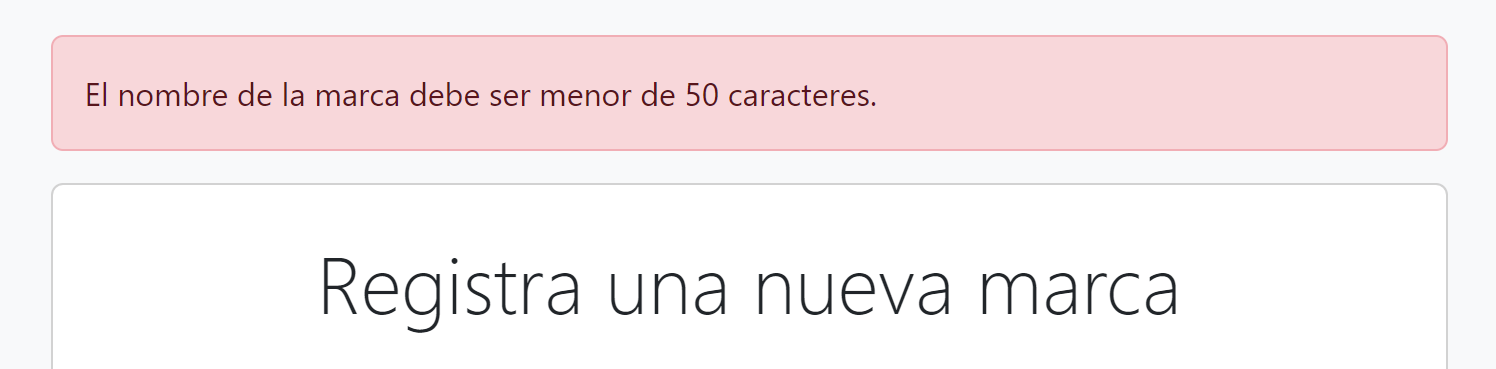
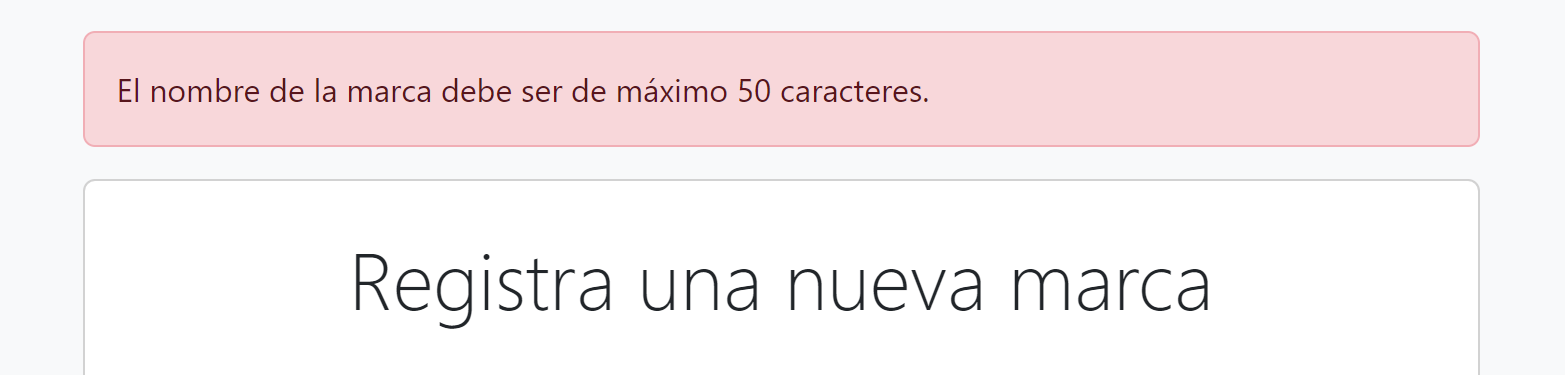
Ligero cambio a una alerta de marca

Changed region(s): [[0.0307, 0.0596, 0.984, 0.4173], [0.2152, 0.6558, 0.7995, 0.8943], [0.0307, 0.477, 0.9532, 0.5068]]

diff --git a/Zebranalytics/controllers/brands.controller.js b/Zebranalytics/controllers/brands.controller.js
@@ -55,7 +55,7 @@ exports.postNewBrands = (request, response, next) => {
     if (request.body.brandName.length > 50) {
 
         Marca.eliminaImagenNueva(request.file.filename).then((message) => {
-            request.session.error = 'El nombre de la marca debe ser menor de 50 caracteres.';
+            request.session.error = 'El nombre de la marca debe ser de máximo 50 caracteres.';
             return response.redirect('/brands/new');
         }).catch((error) => {
             console.log(error)
